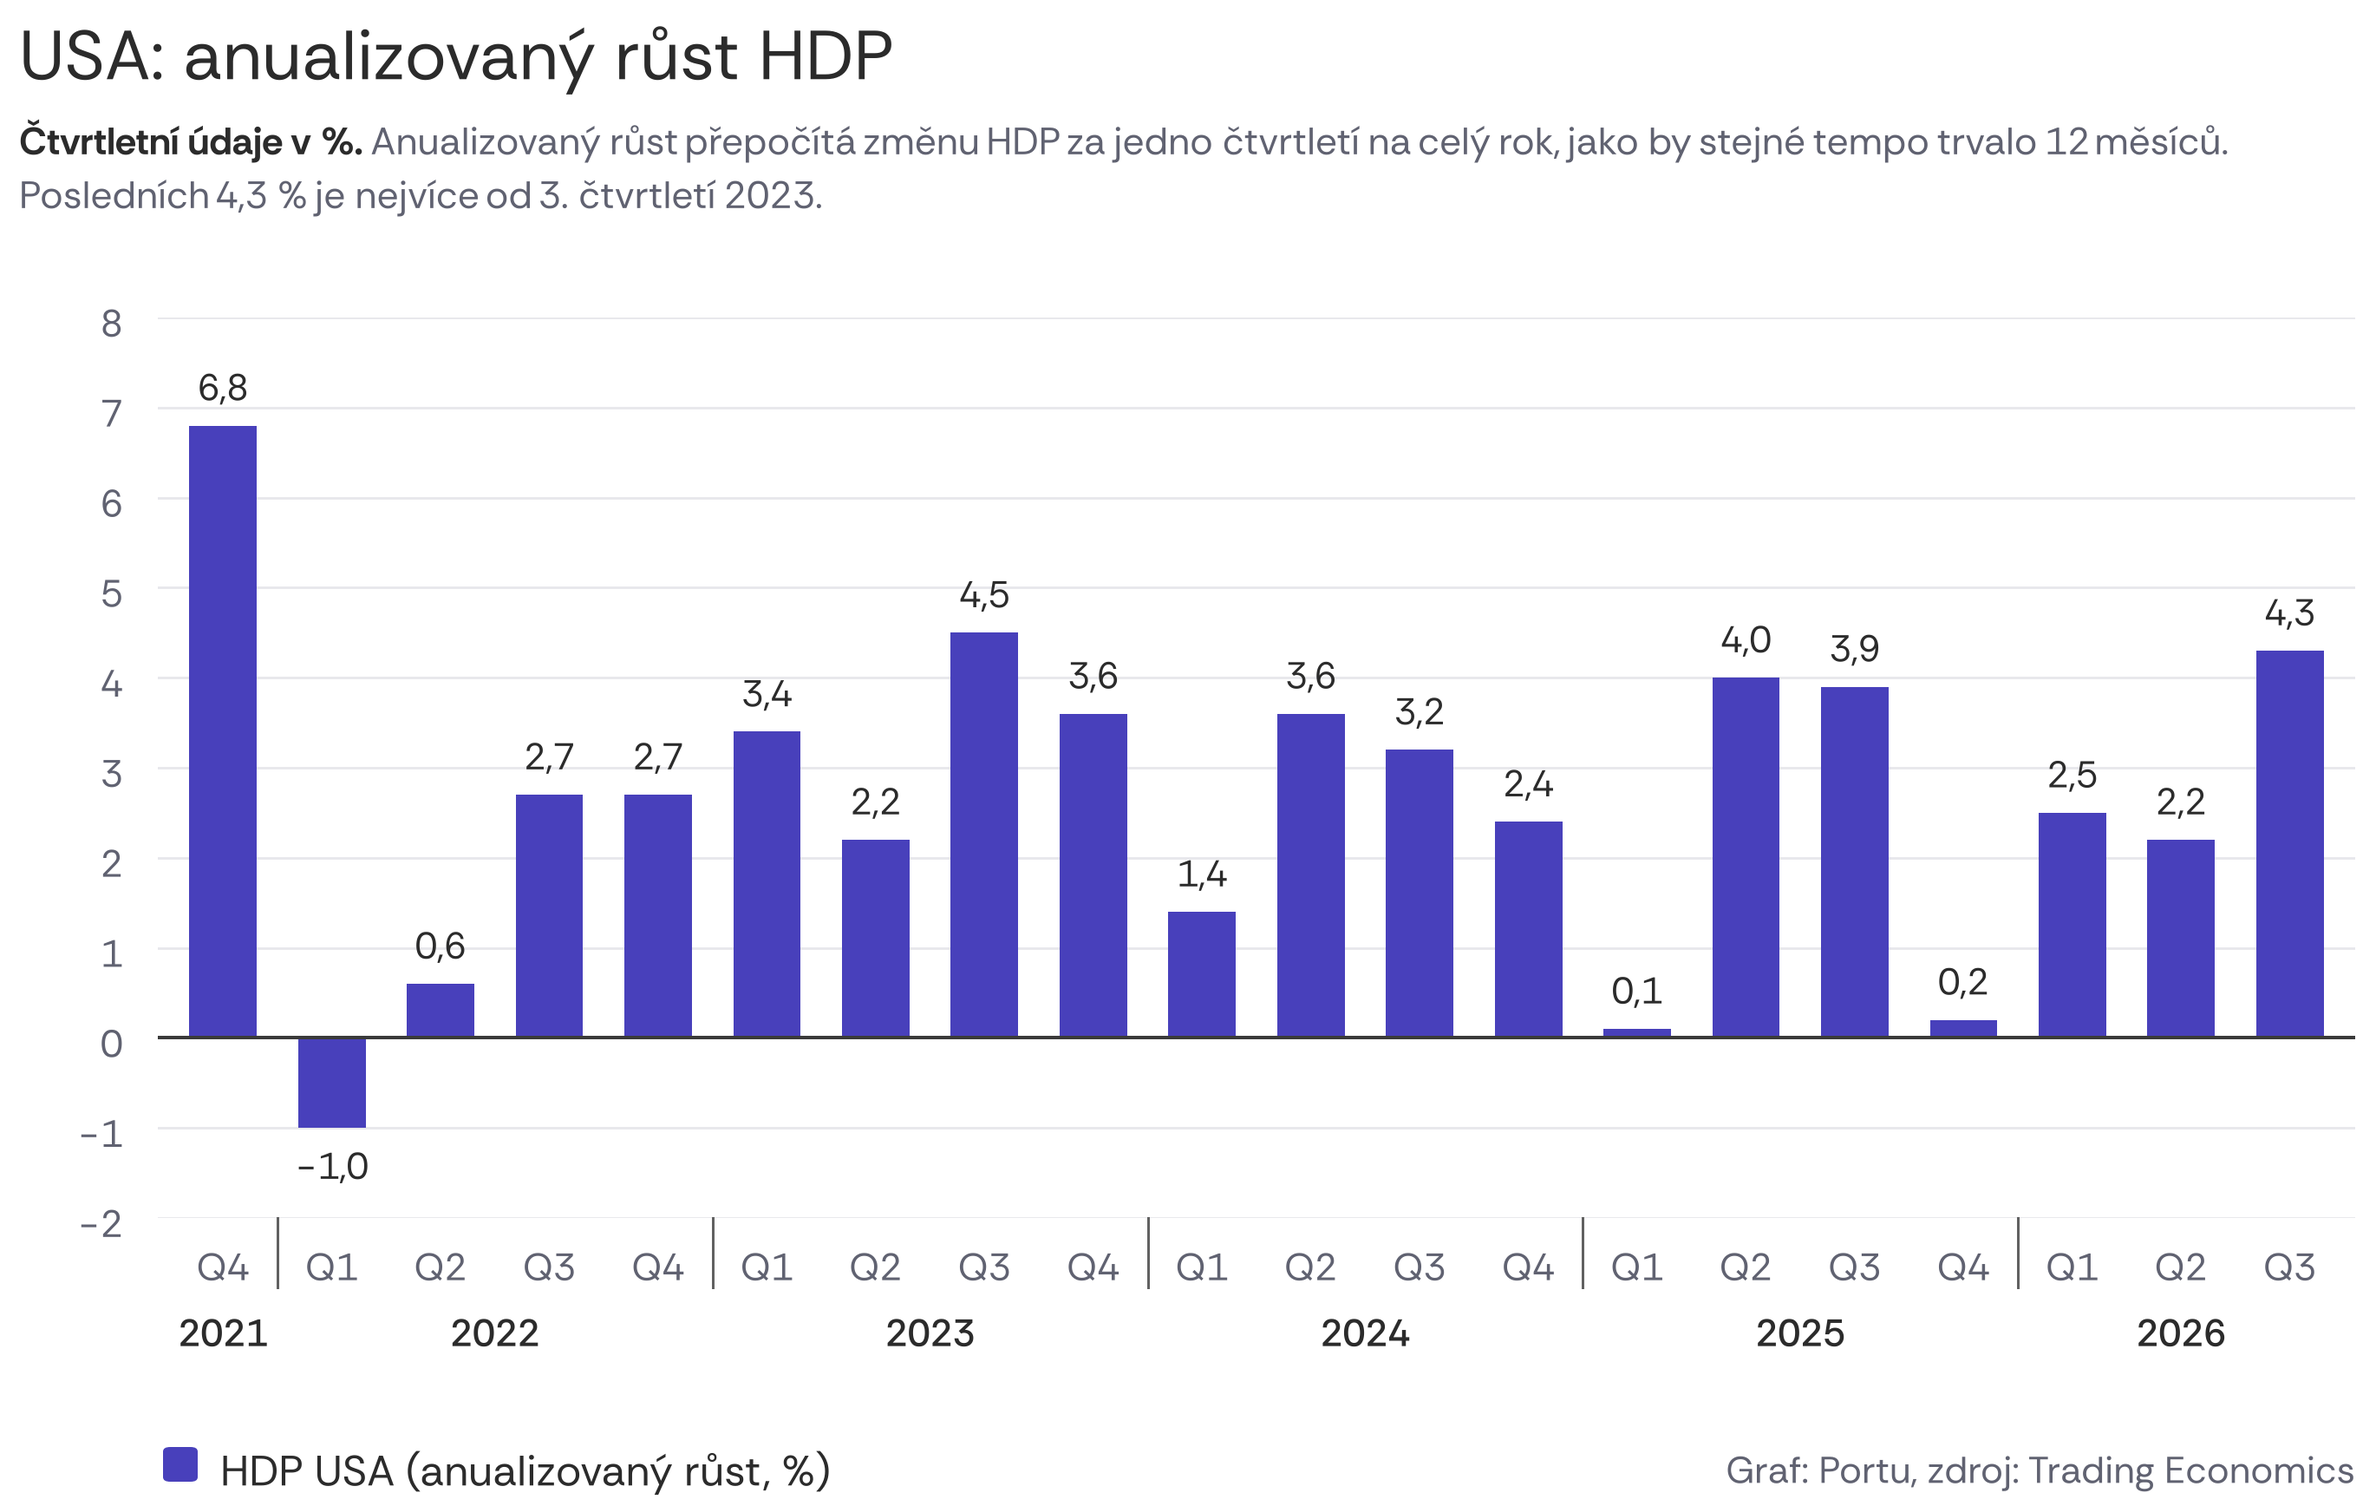
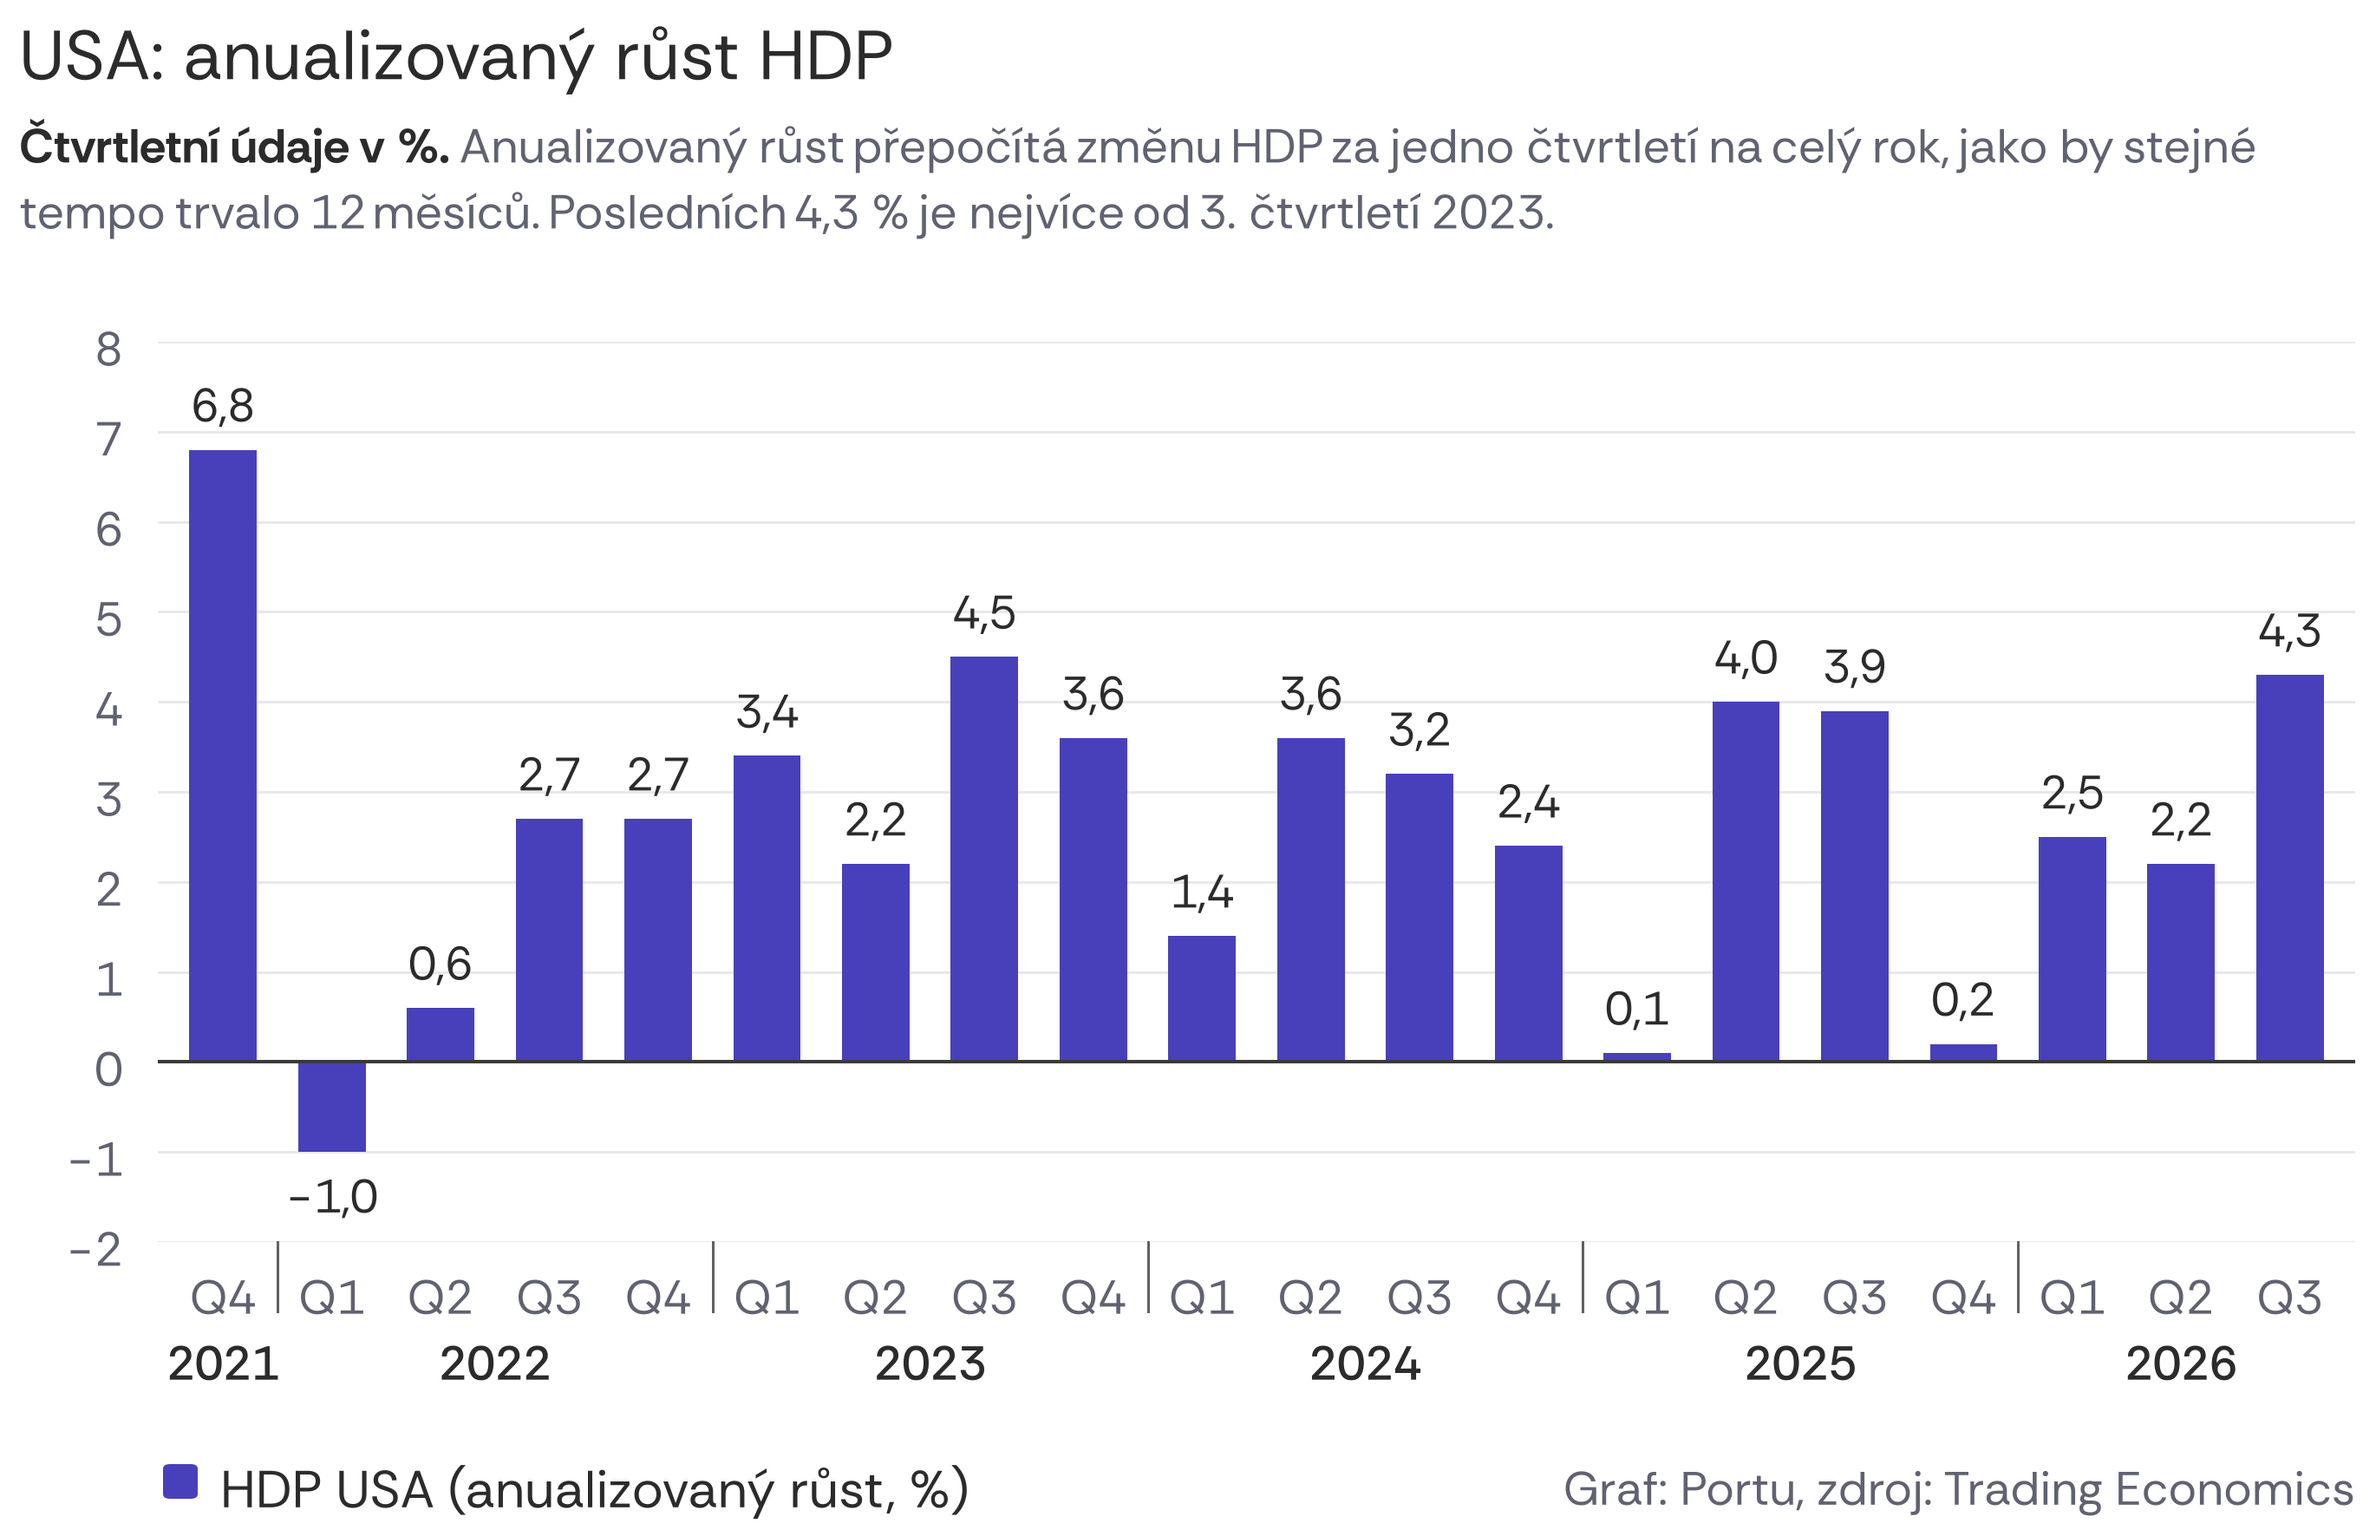
Grafy: všechno písmo kromě nadpisu o 2 body větší (čitelnost na mobilu); varování při překryvu legendy a zdroje
Claude-Session: https://claude.ai/code/session_01A8r6cxYv4z3RaLJthvcQAS

diff --git a/nastroje/portu_grafy.py b/nastroje/portu_grafy.py
@@ -51,19 +51,21 @@ DPI = 200
 SIRKA_PX, VYSKA_PX = 1370, 722
 PT = DPI / 72  # px na 1 bod písma
 
-PISMO_OSA = 22 / PT        # ≈ 7,9 pt – popisky os a kategorií
-PISMO_HODNOTA = 21.5 / PT  # ≈ 7,7 pt – hodnoty u sloupců
-PISMO_LEGENDA = 24.5 / PT  # ≈ 8,8 pt – legenda
-PISMO_ZDROJ = 21.5 / PT    # ≈ 7,7 pt – „Graf: Portu, zdroj: …“
-PISMO_NADPIS = 40 / PT     # ≈ 14,4 pt – jen u varianty s nadpisem v obrázku
-PISMO_PODNADPIS = 22 / PT  # ≈ 7,9 pt – šedý popis pod nadpisem (první věta tučně)
+# Od 27. 11. 2026 všechno písmo kromě nadpisu o 2 body větší (zpětná vazba čtenářů: na mobilu nečitelné).
+VETSI = 2                          # o kolik bodů je písmo větší než v původním vzhledu
+PISMO_OSA = 22 / PT + VETSI        # ≈ 9,9 pt – popisky os a kategorií
+PISMO_HODNOTA = 21.5 / PT + VETSI  # ≈ 9,7 pt – hodnoty u sloupců
+PISMO_LEGENDA = 24.5 / PT + VETSI  # ≈ 10,8 pt – legenda
+PISMO_ZDROJ = 21.5 / PT + VETSI    # ≈ 9,7 pt – „Graf: Portu, zdroj: …“
+PISMO_NADPIS = 40 / PT             # ≈ 14,4 pt – nadpis (beze změny)
+PISMO_PODNADPIS = 22 / PT + VETSI  # ≈ 9,9 pt – šedý popis pod nadpisem (první věta tučně)
 
 GRAF_LEVA, GRAF_PRAVA = 91, 1358   # okraje kreslicí plochy
 POPISKY_Y_PRAVA = 71               # popisky osy y zarovnané vpravo k tomuto x
 GRAF_HORNI = 37                    # horní mřížka
 GRAF_DOLNI_1RADEK = 598            # spodní hrana plochy, popisky osy x na 1 řádek
 GRAF_DOLNI_2RADKY = 556            # spodní hrana plochy, kategorie na 2 řádky
-LEGENDA_STRED_Y = 698              # svislý střed legendy a zdroje
+LEGENDA_STRED_Y = 694              # svislý střed legendy a zdroje
 CTVEREC = 20                       # značka v legendě (zaoblený čtverec)
 
 ZDROJ = "Graf: Portu, zdroj: Bloomberg"
@@ -112,7 +114,7 @@ def _fy(px_shora: float) -> float:
     return 1 - px_shora / VYSKA_PX
 
 
-PODNADPIS_RADEK_PX = 31  # výška jednoho řádku podnadpisu
+PODNADPIS_RADEK_PX = 38  # výška jednoho řádku podnadpisu
 
 
 def _sirka_textu(text: str, px: float, font) -> float:
@@ -165,7 +167,7 @@ def _platno(dolni_px: float, horni_px: float = GRAF_HORNI, nadpis: str | None = 
         for k, radek in enumerate(radky_pod):
             x = GRAF_LEVA - 80
             for w, f in radek:
-                fig.text(_fx(x), 1 - (78 + k * PODNADPIS_RADEK_PX) / vyska, w, fontsize=PISMO_PODNADPIS,
+                fig.text(_fx(x), 1 - (80 + k * PODNADPIS_RADEK_PX) / vyska, w, fontsize=PISMO_PODNADPIS,
                          color=TEXT_TMAVY if f is _TUCNE else TEXT_SEDY, fontproperties=f, va="center_baseline")
                 x += _sirka_textu(w, PISMO_PODNADPIS * PT, f) + mezera
         fig.text(_fx(GRAF_LEVA - 80), 1 - 32 / vyska, nadpis, fontsize=PISMO_NADPIS, color=TEXT_TMAVY,
@@ -250,8 +252,13 @@ def _legenda_a_zdroj(fig, polozky, zdroj):
         sirka = t.get_window_extent(renderer=fig.canvas.get_renderer()).width
         x += sirka_znacky + 13 + sirka + 37
     if zdroj:
-        fig.text(_fx(GRAF_PRAVA), fy(LEGENDA_STRED_Y), zdroj, fontsize=PISMO_ZDROJ, color=TEXT_SEDY,
-                 ha="right", va="center_baseline")
+        t = fig.text(_fx(GRAF_PRAVA), fy(LEGENDA_STRED_Y), zdroj, fontsize=PISMO_ZDROJ, color=TEXT_SEDY,
+                     ha="right", va="center_baseline")
+        sirka_zdroje = t.get_window_extent(renderer=fig.canvas.get_renderer()).width
+        if x - 37 + 24 > GRAF_PRAVA - sirka_zdroje:  # legenda by vjela do zdroje – zkrať názvy řad nebo zdroj
+            import sys
+            print(f"POZOR: legenda a zdroj se překrývají ({x - 37:.0f} px > {GRAF_PRAVA - sirka_zdroje:.0f} px)",
+                  file=sys.stderr)
 
 
 # --- Sloupcový graf (svislé sloupce, seskupené řady) --------------------------
@@ -433,7 +440,7 @@ def spojnicovy(x, rady: dict, osa_y, jednotka="", mista_osa=0, zdroj=ZDROJ, barv
         konce = []
     if konce:
         # popisky blízkých hodnot od sebe odsuň, aby se nepřekrývaly (min. 26 px)
-        mezera = 26 / (GRAF_DOLNI_1RADEK - GRAF_HORNI) * (osa_y[1] - osa_y[0])
+        mezera = 32 / (GRAF_DOLNI_1RADEK - GRAF_HORNI) * (osa_y[1] - osa_y[0])
         poradi = sorted(range(len(konce)), key=lambda k: konce[k])
         pozice = {k: konce[k] for k in poradi}
         for a, b in zip(poradi, poradi[1:]):

diff --git a/vystupy/grafy/2026-11-27-podil-vyrobcu-evropa.py b/vystupy/grafy/2026-11-27-podil-vyrobcu-evropa.py
@@ -23,9 +23,9 @@ p25 = [float(x["podil_2025_pct"]) for x in r]
 p26 = [float(x["podil_2026_pct"]) for x in r]
 
 OSA = (0, 16, 2)
-DOLNI = pg.GRAF_DOLNI_2RADKY - 36          # místo na poznámku pod legendou
-LEGENDA_Y = pg.LEGENDA_STRED_Y - 36
-POZNAMKA_Y = pg.LEGENDA_STRED_Y + 4
+DOLNI = pg.GRAF_DOLNI_2RADKY - 50          # místo na poznámku pod legendou
+LEGENDA_Y = pg.LEGENDA_STRED_Y - 48
+POZNAMKA_Y = pg.LEGENDA_STRED_Y - 4
 fig, ax = pg._platno(
     DOLNI, nadpis="Evropští výrobci ztrácejí podíl ve prospěch čínských",
     podnadpis=("Podíl na registracích nových osobních aut v západní Evropě za prvních devět měsíců roku, v %.",
@@ -34,7 +34,7 @@ fy = fig._portu["fy"]
 pg._osa_y(ax, OSA, "", 0)
 n = len(vyrobci)
 ax.set_xlim(-0.5, n - 0.5)
-SIRKA, MEZERA = 0.32, 0.04
+SIRKA, MEZERA = 0.31, 0.08
 odsazeni = 8 / (DOLNI - pg.GRAF_HORNI) * (OSA[1] - OSA[0])
 for posun, hodnoty, barva in ((-(SIRKA + MEZERA) / 2, p25, pg.FIALOVA), ((SIRKA + MEZERA) / 2, p26, pg.ZELENA)):
     xs = [i + posun for i in range(n)]
@@ -47,7 +47,7 @@ ax.set_xticks([])
 VYSKA = DOLNI - pg.GRAF_HORNI
 for i, nazev in enumerate(vyrobci):  # každý řádek popisku na stejné účaří (diakritika jinak posouvá popisky)
     for k, radek in enumerate(nazev.split("\n")):
-        ax.text(i, -(40 + k * 30) / VYSKA, radek, transform=ax.get_xaxis_transform(), ha="center", va="baseline",
+        ax.text(i, -(42 + k * 34) / VYSKA, radek, transform=ax.get_xaxis_transform(), ha="center", va="baseline",
                 fontsize=pg.PISMO_OSA, color=pg.TEXT_SEDY)
 
 renderer = fig.canvas.get_renderer()

diff --git a/vystupy/grafy/2026-11-27-eurozona-inflace-ecb.py b/vystupy/grafy/2026-11-27-eurozona-inflace-ecb.py
@@ -26,7 +26,7 @@ i_max = max(range(len(inflace)), key=inflace.__getitem__)
 
 fig = pg.spojnicovy(
     mesice,
-    {"Inflace v eurozóně (HICP, meziročně)": inflace, "Depozitní sazba ECB": (dny, sazba)},
+    {"Inflace (HICP, meziročně)": inflace, "Depozitní sazba ECB": (dny, sazba)},
     osa_y=(-2, 12, 2), jednotka="%", format_x="%Y", rozsah_x=(dt.date(2016, 10, 1), mesice[-1]),
     schody=("Depozitní sazba ECB",), popisky_konec=True, mista_konec=1, tloustka_cary=3,
     anotace=[(mesice[i_max], inflace[i_max], f"{pg.cislo(inflace[i_max], 1, '%')} (říj 2022)", "nad"),
